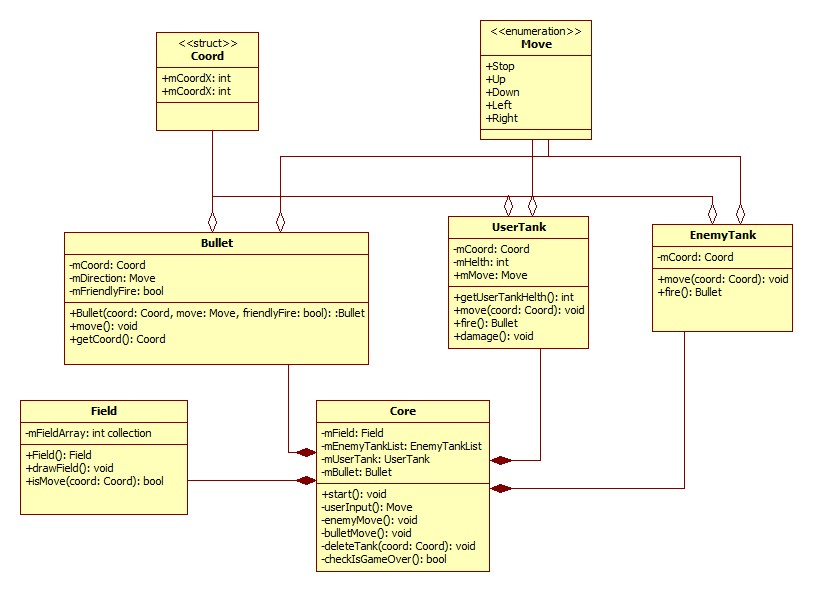
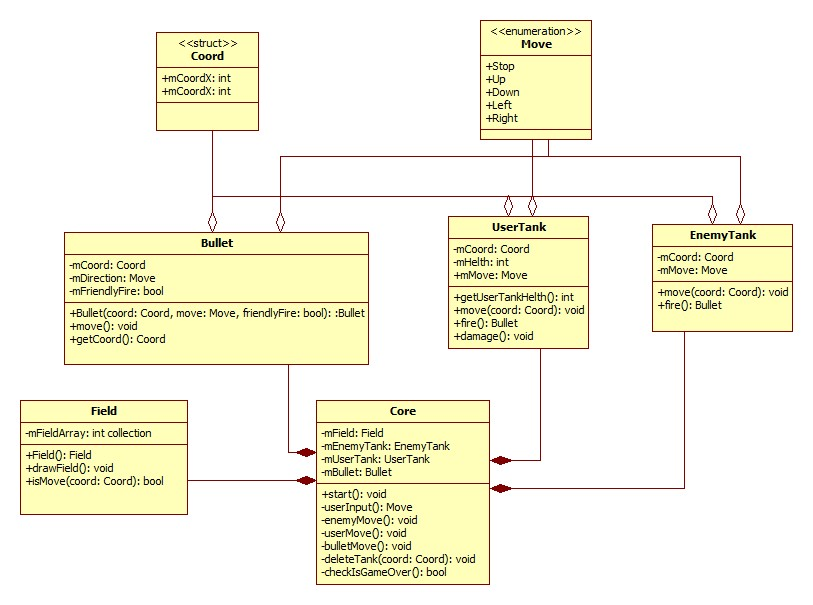
Fix some problems

diff --git a/Tank/src/field.cpp b/Tank/src/field.cpp
@@ -13,11 +13,11 @@ Field::Field()
                0 == i ||
                i == nConstants::HEIGHT - 1 )
             {
-                FieldArray[i][j] = nConstants::OBSTACLES;
+                FieldArray[i][j] = nFieldobjects::OBSTACLES;
             }
             else
             {
-                FieldArray[i][j] = nConstants::CLEARFIELD;
+                FieldArray[i][j] = nFieldobjects::CLEARFIELD;
             }
         }
     }
@@ -33,16 +33,11 @@ void Field::drawField()
             {
             case nFieldobjects::OBSTACLES: std::cout << "#"; break;
             case nFieldobjects::CLEARFIELD: std::cout << " ";break;
-            case nFieldobjects::USERTANK: std::cout<< "*"; break;
+            case nFieldobjects::USERTANK: std::cout << "@"; break;
+            case nFieldobjects::ENEMYTANK: std::cout << "&"; break;
+            case nFieldobjects::DEMOLISHEDWALL: std::cout << "#"; break;
+            case nFieldobjects::GOLD: std::cout << "G"; break;
             default: break;
-            }
-            if(FieldArray[i][j] == nConstants::OBSTACLES)
-            {
-                std::cout << "#";
-            }
-            else
-            {
-                std::cout << " ";
             }
         }
         std::cout<<std::endl;

diff --git a/Tank/src/enemytank.cpp b/Tank/src/enemytank.cpp
@@ -1,21 +1,20 @@
 #include "enemytank.h"
+#include "helper.h"
 
-EnemyTank::EnemyTank()
-{
-
-}
-
-void EnemyTank::draw()
+EnemyTank::EnemyTank():mCoord(nConstants::TESTENEMYX, nConstants::TESTENEMYY)
+  , mMove(Right)
 {
 
 }
 
 void EnemyTank::move(Coord coord)
 {
-
+    mCoord.X = coord.X;
+    mCoord.Y = coord.Y;
 }
 
 Bullet EnemyTank::fire()
 {
-
+    Bullet bullet(mCoord, mMove, false);
+    return bullet;
 }

diff --git a/Tank/src/helper.h b/Tank/src/helper.h
@@ -7,6 +7,8 @@ namespace nConstants
     const int WIDTH            = 60;
     const int DEFAULDUSERTANKX = 25;
     const int DEFAULDUSERTANKY = 51;
+    const int TESTENEMYX = 10;
+    const int TESTENEMYY = 10;
     const int HELTH = 3;
 }
 

diff --git a/Tank/src/enemytank.h b/Tank/src/enemytank.h
@@ -8,11 +8,11 @@ class EnemyTank
 {
 public:
     EnemyTank();
-    void draw();
     void move(Coord coord);
     Bullet fire();
 private:
     Coord mCoord;
+    Move mMove;
 };
 
 #endif // ENEMYTANK_H

diff --git a/Tank/src/core.h b/Tank/src/core.h
@@ -16,6 +16,7 @@ private:
     bool checkIsGameOver;
 private:
     Move userInput();
+    void userMove();
     void enemyMove();
     void bulletMove();
     void deleteTank(Coord coord);

diff --git a/Tank/src/core.cpp b/Tank/src/core.cpp
@@ -29,3 +29,8 @@ void Core::start()
 {
 
 }
+
+void Core::userMove()
+{
+
+}
